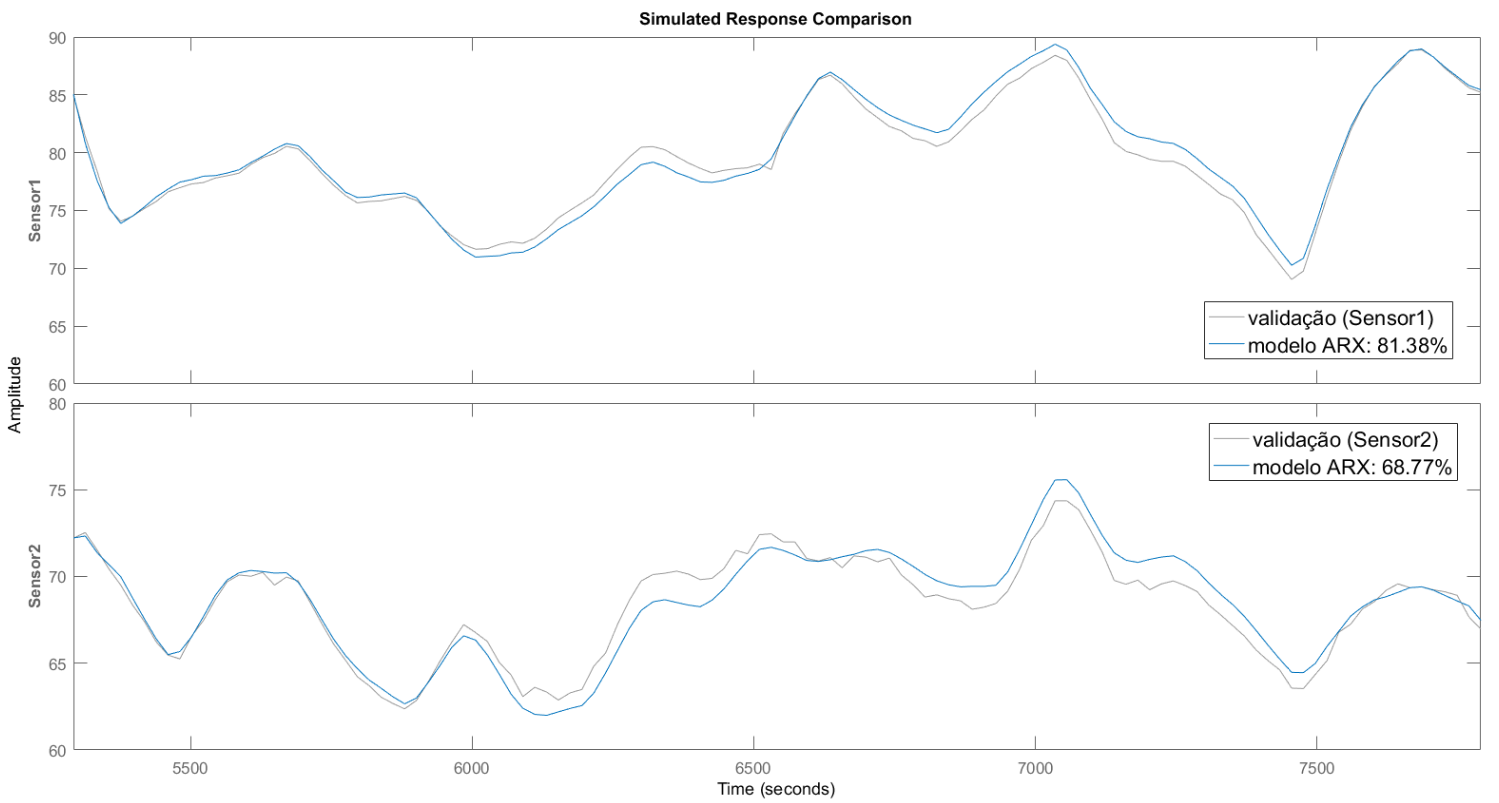
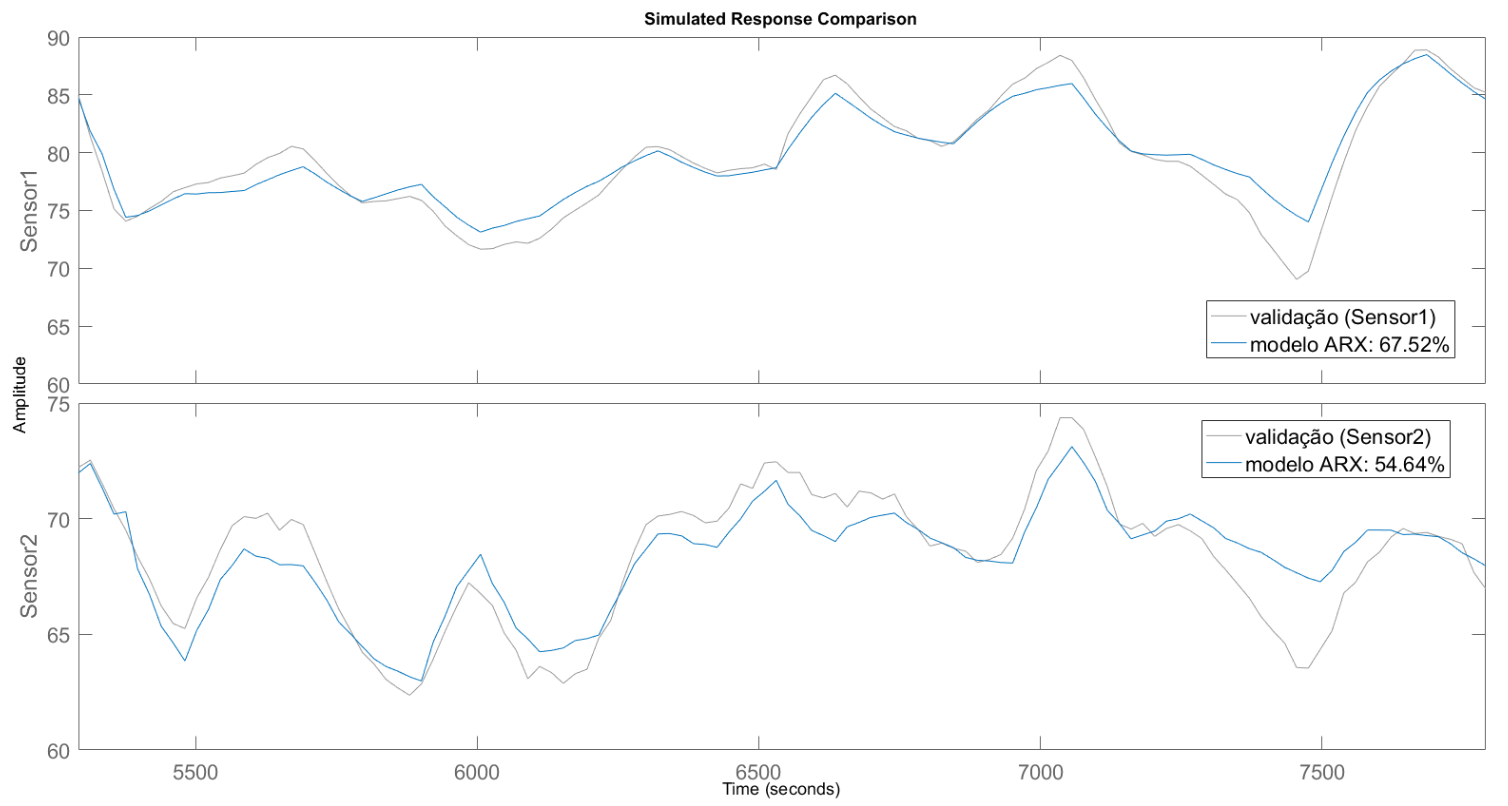
Modelos exp ARX atualizados

diff --git a/2_content/metodos.tex b/2_content/metodos.tex
@@ -432,11 +432,10 @@ A \cref{tab:tclabsp-models-description} apresenta a quantidade de modelos que fo
 		{Representação matemática}		                                & {Quantidade}          \\ \midrule
 		Função de transferência		                                    & $10.000$              \\
 		Espaço de estados   		                                    & $10$                  \\
-		\acrshort{arx}		                                            & $80$                  \\
-		\acrshort{armax}		                                        & $320$                 \\
-		\acrshort{oe}													& $80$                  \\
-		\acrshort{bj}                                   				& $1.280$               \\
-		\acrshort{nlarx}                    							& $26.244$              \\ \bottomrule
+		\acrshort{arx}		                                            & $9$                   \\
+		\acrshort{armax}		                                        & $36$                  \\
+		\acrshort{oe}													& $10$                  \\
+		\acrshort{bj}                                   				& $160$                 \\ \bottomrule
 	\end{tabular}
 	\caption*{Fonte: Autor}
 \end{table}
@@ -629,21 +628,13 @@ números de zeros ($n_b$) e de tempo morto ($n_k$). As combinações utilizadas 
 		$n_b$			&
 							$ \begin{bmatrix}	1	&	1	\\	1	&	1	\\	\end{bmatrix} $	,		
 							$ \begin{bmatrix}	2	&	2	\\	2	&	2	\\	\end{bmatrix} $	,		
-							$ \begin{bmatrix}	3	&	3	\\	3	&	3	\\	\end{bmatrix} $	,		
-							$ \begin{bmatrix}	4	&	4	\\	4	&	4	\\	\end{bmatrix} $		\\ \midrule
+							$ \begin{bmatrix}	3	&	3	\\	3	&	3	\\	\end{bmatrix} $	 	\\ \midrule
 		$n_k$			&
-							$ \begin{bmatrix}	0	&	0	\\	0	&	0	\\	\end{bmatrix} $	,		
-							$ \begin{bmatrix}	1	&	1	\\	1	&	1	\\	\end{bmatrix} $	,		
-							$ \begin{bmatrix}	2	&	2	\\	2	&	2	\\	\end{bmatrix} $	,		
-							$ \begin{bmatrix}	3	&	3	\\	3	&	3	\\	\end{bmatrix} $	,		
-							$ \begin{bmatrix}	4	&	4	\\	4	&	4	\\	\end{bmatrix} $		\\ \bottomrule
+							$ \begin{bmatrix}	1	&	1	\\	1	&	1	\\	\end{bmatrix} $		\\ \bottomrule
 	\end{tabular}
 	\caption*{Fonte: Autor}
 \end{table}
 
-A partir de todos os modelos possíveis gerados a partir das combinações dos parâmetros da \cref{tab:tclabsp-models-arx},
-selecionaram-se os 10 modelos com menor valor segundo o critério de \acrshort{aic} e a partir destes foi então
-selecionado o modelo com menor valor residual.
 O gráfico mostrando a distribuição dos modelos gerados em comparação ao critério de \acrshort{aic} pode ser
 visto na \cref{fig:tclabsp-models-arx} e o modelo \acrshort{arx} escolhido, seu gráfico comparativo aos dados validação
 e sua análise residual podem ser vistos na \cref{tab:tclabsp-model-arx}, na \cref{fig:tclabsp-models-arx-compare} e na
@@ -671,10 +662,10 @@ e sua análise residual podem ser vistos na \cref{tab:tclabsp-model-arx}, na \cr
 										\text{Formato:}																	\\
 										A(z)y_1(t) &= - A_i(z)y_i(t) + B(z)u(t) + e_1(t)								\\
 										\text{Onde:}																	\\
-										A(z) &= 1 - 1.053 z^{-1} - 0.2885 z^{-2} + 0.4807 z^{-3} - 0.0593 z^{-4}		\\
-										A_2(z) &= -0.1701 z^{-1} - 0.06197 z^{-2} + 0.1552 z^{-3} + 0.003291 z^{-4}		\\ 	 
-										B1(z) &= 0.03937 + 0.04884 z^{-1} - 0.01257 z^{-2} - 0.02444 z^{-3}				\\	 
-										B2(z) &= 0.005292 - 0.006813 z^{-1} - 0.005269 z^{-2} - 0.01209 z^{-3}   
+										A(z) = 1 - 1.308 z^{-1} + 0.1507 z^{-2} + 0.3109 z^{-3} - 0.07434 z^{-4}       	\\  
+										A_2(z) = -0.2768 z^{-1} + 0.03432 z^{-2} + 0.1842 z^{-3} - 0.02748 z^{-4}      	\\  
+										B1(z) = 0.07487 z^{-1} - 0.02 z^{-2} - 0.01542 z^{-3}                      		\\
+										B2(z) = -0.00504 z^{-1} - 0.006801 z^{-2} - 0.01316 z^{-3}    
 									\end{aligned}
 								$	
 							\\ \midrule
@@ -682,12 +673,12 @@ e sua análise residual podem ser vistos na \cref{tab:tclabsp-model-arx}, na \cr
 								$ 
 									\begin{aligned}
 										\text{Formato:}																	\\
-										A(z)y_2(t) &= - A_i(z)y_i(t) + B(z)u(t) + e_2(t)									\\
+										A(z)y_2(t) &= - A_i(z)y_i(t) + B(z)u(t) + e_2(t)								\\
 										\text{Onde:}																	\\
-										A(z) &= 1 - 0.4421 z^{-1} - 0.3168 z^{-2} + 0.02046 z^{-3} - 0.02842 z^{-4}      \\ 
-										A_1(z) &= -0.7006 z^{-1} + 0.02119 z^{-2} + 0.6253 z^{-3} - 0.1524 z^{-4}     	\\ 
-										B1(z) &= 0.001822 - 0.02448 z^{-1} - 0.05453 z^{-2} - 0.03861 z^{-3}        	 	\\
-										B2(z) &= 0.02737 + 0.03038 z^{-1} + 0.02127 z^{-2} + 0.01153 z^{-3}    			
+										A(z) = 1 - 0.4098 z^{-1} - 0.2493 z^{-2} + 0.0703 z^{-3} - 0.1442 z^{-4}    	\\   
+										A_1(z) = -0.9008 z^{-1} + 0.257 z^{-2} + 0.5452 z^{-3} - 0.1428 z^{-4}  		\\
+										B1(z) = -0.02857 z^{-1} - 0.06333 z^{-2} - 0.03838 z^{-3}          				\\
+										B2(z) = 0.05223 z^{-1} + 0.025 z^{-2} + 0.01699 z^{-3} 		
 									\end{aligned}
 								$
 							\\ \bottomrule
